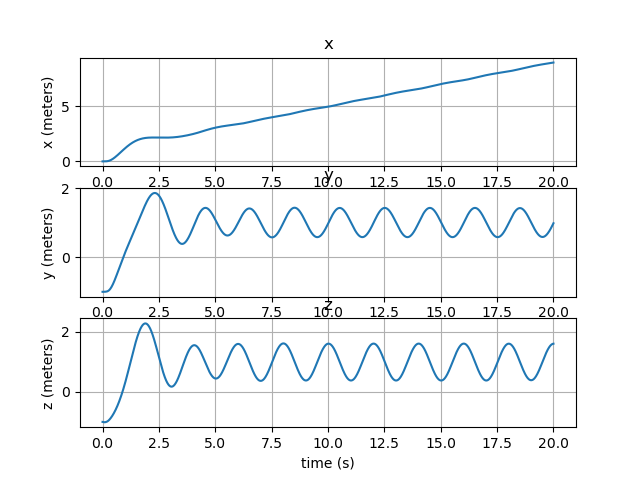
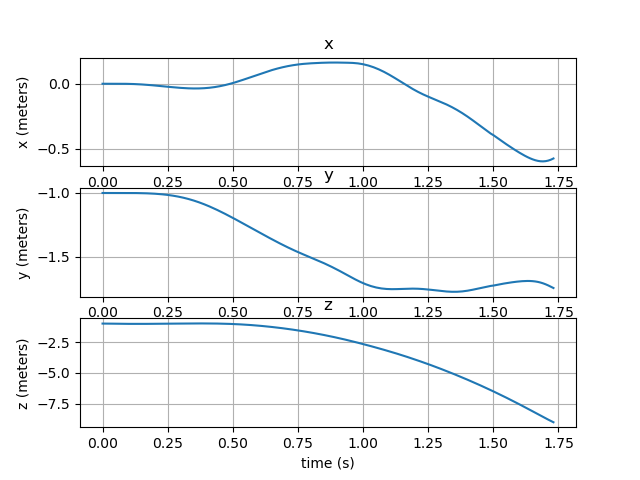
not good

diff --git a/MultiRotorDynamics.py b/MultiRotorDynamics.py
@@ -181,7 +181,7 @@ class Battery():
     
 
 class TrajectoryPlanner():
-    def __init__(self, delta_t, max_time, x_d_lambda,b1_d_lambda):
+    def __init__(self, delta_t, max_time, x_d_lambda,b1_d_lambda,b3_d_lambda):
         self.delta_t = delta_t
         self.max_time = max_time
         self.t = np.linspace(0,max_time,int(max_time/delta_t)+1) 
@@ -189,6 +189,7 @@ class TrajectoryPlanner():
         self.x_dot_d = derivative(x_d_lambda,self.t,dx=1e-6)
         self.x_dot_dot_d = derivative(x_d_lambda,self.t,dx=1e-6,n=2)
         self.b1_d = b1_d_lambda(self.t)
+        self.b3_d = b3_d_lambda(self.t)
 
         self.prev_R_d = np.eye(3)
         self.prev_ang_vel_d = np.zeros((3,))
@@ -196,7 +197,7 @@ class TrajectoryPlanner():
 
         
     def get_trajectory(self,time):
-        return self.x_d[:,int(time/self.delta_t)],self.x_dot_d[:,int(time/self.delta_t)],self.x_dot_dot_d[:,int(time/self.delta_t)], self.b1_d[:,int(time/self.delta_t)]
+        return self.x_d[:,int(time/self.delta_t)],self.x_dot_d[:,int(time/self.delta_t)],self.x_dot_dot_d[:,int(time/self.delta_t)], self.b1_d[:,int(time/self.delta_t)], self.b3_d[:,int(time/self.delta_t)]
 
 
 
@@ -211,14 +212,30 @@ class Controller():
         self.k_omega = k_omega
         self.fully_actuated = None
         self.controllable = None
+        self.rxy = 0
         self.allocation_matrix = self.calculate_allocation_matrix(rotors)
+        
         self.TP = TrajectoryPlanner
         
     
     def update_trajectory(self,time):
-        x_d, x_dot_d, x_dot_dot_d, b1_d = self.TP.get_trajectory(time)
-        self.traj = [x_d, x_dot_d, x_dot_dot_d, b1_d]
+        x_d, x_dot_d, x_dot_dot_d, b1_d, b3_d = self.TP.get_trajectory(time)
+        self.traj = [x_d, x_dot_d, x_dot_dot_d, b1_d, b3_d]
     
+    def get_b3d(self, b3r, fr, n):
+        rxy = self.rxy
+        cross = np.cross(b3r,fr)
+        k = cross/np.linalg.norm(cross)
+        theta_max = np.arcsin(np.linalg.norm(k))
+        theta = theta_max/2
+        for i in range(n):
+            
+            if fr@(b3r*np.cos(theta)-cross*np.sin(theta)+k*(k@b3r)*(1-np.cos(theta))) >= np.sqrt(np.linalg.norm(fr)**2-rxy**2):
+                theta = theta-1/2*theta_max/(2**i)
+            else:
+                theta = theta + 1/2*theta_max/(2**i)
+        b3d = b3r*np.cos(theta)-cross*np.sin(theta)+k*(k@b3r)*(1-np.cos(theta))
+        return b3d
 
     def calculate_errors(self, m, time, R_mat, ang_vel, t_vec, t_vec_dot):
 
@@ -226,16 +243,17 @@ class Controller():
         e3 = np.array([0,0,1],dtype = float)
         
         self.update_trajectory(time)
-        x_d, x_dot_d, x_dot_dot_d, b1_d = self.traj
+        x_d, x_dot_d, x_dot_dot_d, b1_r, b3_r = self.traj
 
         #Positional errors
         e_x = t_vec - x_d
         e_v = t_vec_dot - x_dot_d
 
         #Calculate R_d
-        ctrl = -self.k_x*e_x - self.k_v*e_v+m*g*e3+m*x_dot_dot_d
-        b3_d = ctrl/np.linalg.norm(ctrl)
-        cross31 = np.cross(b3_d,b1_d)
+        fr = -m*self.k_x*e_x - m*self.k_v*e_v+m*g*e3+m*x_dot_dot_d
+        # b3_d = ctrl/np.linalg.norm(ctrl)
+        b3_d = self.get_b3d(b3_r,fr,100)
+        cross31 = np.cross(b3_d,b1_r)
         b2_d = cross31/np.linalg.norm(cross31)
         b1_d_new = np.cross(b2_d,b3_d)
         R_d = np.array([b1_d_new,b2_d,b3_d]).T
@@ -293,10 +311,15 @@ class Controller():
             return None
         elif (np.linalg.matrix_rank(allocation_matrix_full) == 6):
             self.fully_actuated = True
+            force_vectors_xy = allocation_matrix_full[:2,:]*[rotor.maxforce for rotor in rotors]
+            self.rxy = np.sqrt(np.sum(np.abs(force_vectors_xy[0]))**2+np.sum(np.abs(force_vectors_xy[1]))**2)
+
             return allocation_matrix_full
         else:
             self.fully_actuated = False
             return allocation_matrix
+    
+        
 
     def force_allocation(self, f, M):
         forces = np.insert(M,0,f)
@@ -305,13 +328,19 @@ class Controller():
 
     def get_rotor_forces(self,m,J,time,R_mat,ang_vel,t_vec,t_vec_dot):
         e_x, e_v, e_R, e_omega = self.calculate_errors(m,time,R_mat,ang_vel,t_vec,t_vec_dot)
+        e1 = np.array([1,0,0],dtype = float)
+        e2 = np.array([0,1,0],dtype = float)
         e3 = np.array([0,0,1],dtype = float)
         
         f, M = self.calculate_forces(m,e_x,e_v, e_R, e_omega, R_mat, ang_vel, J)
         
-        if not self.fully_actuated:
+        if self.fully_actuated:
+            f_xy = (f@R_mat@e1)*e1+(f@R_mat@e2)*e2
+            if np.linalg.norm(f_xy)>self.rxy:
+                f_xy = f_xy*np.linalg.norm(f_xy)*self.rxy
+            f = f_xy+(f@R_mat@e3)*e3
+        else:
             f = f@R_mat@e3
-        
         rotor_forces = self.force_allocation(f, M)
         return rotor_forces
 

diff --git a/old_main.py b/old_main.py
@@ -50,7 +50,7 @@ k_omega = 2.54*0.1
 #Trajectory
 x_d = lambda t : np.array([0.4*t+1,0.4*np.sin(np.pi*t)+1,0.6*np.cos(np.pi*t)+1])# x_d = lambda t : np.array([0*t,1*t,1*t])#
 b1_d = lambda t : np.array([np.cos(np.pi*t),np.sin(np.pi*t),0*t])# b1_d = lambda t : np.array([1*t,0*t,0*t])# b1_d = lambda t : np.array([np.cos(np.pi*t),np.sin(np.pi*t),0*t])
-
+b3_d = lambda t : np.array([0*t,0*t,1*t])
 
 
 def main():
@@ -58,7 +58,7 @@ def main():
     dep_cams = []
     IMU = MRD.IMU(m_IMU,np.array([0,0,np.pi/2],dtype=float),np.array([0,0,0],dtype=float),gyro_bias,magnet_bias, k_a,k_m,k_b)
 
-    TrajectoryPlanner = MRD.TrajectoryPlanner(delta_t,max_time,x_d,b1_d)
+    TrajectoryPlanner = MRD.TrajectoryPlanner(delta_t,max_time,x_d,b1_d,b3_d)
     Battery = MRD.Battery(0.6,5,6,"big")
     #Normal Quadrotor rotors
     rotors.append(MRD.Rotor(m_rotor,np.array([0,0,0],dtype=float),np.array([d,0,0],dtype=float),20,-1,0))
@@ -68,14 +68,14 @@ def main():
     
     
     #Custom
-    # rotors.append(mrd.Rotor(m_rotor,np.array([0,0,-np.pi/32],dtype=float),np.array([d,0,0],dtype=float),20,-1,16))
-    # rotors.append(mrd.Rotor(m_rotor,np.array([0,np.pi/32,0],dtype=float),np.array([0,d,0],dtype=float),-20,1,16))
-    # rotors.append(mrd.Rotor(m_rotor,np.array([0,0,np.pi/32],dtype=float),np.array([-d,0,0],dtype=float),20,-1,16))
-    # rotors.append(mrd.Rotor(m_rotor,np.array([0,-np.pi/32,0],dtype=float),np.array([0,-d,0],dtype=float),-20,1,16))
-    # rotors.append(mrd.Rotor(m_rotor,np.array([0,0,np.pi/3],dtype=float),np.array([d/np.sqrt(2),d/np.sqrt(2),0],dtype=float),20,-1,16))
-    # rotors.append(mrd.Rotor(m_rotor,np.array([0,0,0],dtype=float),np.array([-d/np.sqrt(2),-d/np.sqrt(2),0],dtype=float),-20,1,16))
-    # rotors.append(mrd.Rotor(m_rotor,np.array([0,0,np.pi/2],dtype=float),np.array([-d/np.sqrt(2),d/np.sqrt(2),-0.25],dtype=float),20,-1,16))
-    # rotors.append(mrd.Rotor(m_rotor,np.array([0,0,0],dtype=float),np.array([d/np.sqrt(2),-d/np.sqrt(2),0.25],dtype=float),-20,1,16))
+    # rotors.append(MRD.Rotor(m_rotor,np.array([0,0,-np.pi/32],dtype=float),np.array([d,0,0],dtype=float),20,-1,16))
+    # rotors.append(MRD.Rotor(m_rotor,np.array([0,np.pi/32,0],dtype=float),np.array([0,d,0],dtype=float),-20,1,16))
+    # rotors.append(MRD.Rotor(m_rotor,np.array([0,0,np.pi/32],dtype=float),np.array([-d,0,0],dtype=float),20,-1,16))
+    # rotors.append(MRD.Rotor(m_rotor,np.array([0,-np.pi/32,0],dtype=float),np.array([0,-d,0],dtype=float),-20,1,16))
+    # rotors.append(MRD.Rotor(m_rotor,np.array([0,0,np.pi/3],dtype=float),np.array([d/np.sqrt(2),d/np.sqrt(2),0],dtype=float),20,-1,16))
+    # rotors.append(MRD.Rotor(m_rotor,np.array([0,0,0],dtype=float),np.array([-d/np.sqrt(2),-d/np.sqrt(2),0],dtype=float),-20,1,16))
+    # rotors.append(MRD.Rotor(m_rotor,np.array([0,0,np.pi/2],dtype=float),np.array([-d/np.sqrt(2),d/np.sqrt(2),-0.25],dtype=float),20,-1,16))
+    # rotors.append(MRD.Rotor(m_rotor,np.array([0,0,0],dtype=float),np.array([d/np.sqrt(2),-d/np.sqrt(2),0.25],dtype=float),-20,1,16))
     Controller = MRD.Controller(k_x,k_v,k_R,k_omega,TrajectoryPlanner, rotors)
     dep_cams.append(MRD.DepthCamera(m_dep_cam, rot_vec=np.array([0,0,0],dtype=float), t_vec=np.array([0,0,d],dtype=float),AoV=AoV,K = K,res = res))
     

diff --git a/GA.py b/GA.py
@@ -23,6 +23,7 @@ max_time = 20
 # b1_d = lambda t : np.array([np.cos(np.pi*t),np.sin(np.pi*t),0*t])# b1_d = lambda t : np.array([1*t,0*t,0*t])# b1_d = lambda t : np.array([np.cos(np.pi*t),np.sin(np.pi*t),0*t])
 x_d = lambda t : np.array([0*t+1,1*t+1,1*t+1])
 b1_d = lambda t : np.array([1*t,0*t,0*t])
+b3_d = lambda t : np.array([0*t,0*t,1*t])
 
 m_IMU = 0.02
 m_dep_cam = 0.03
@@ -151,7 +152,7 @@ def load_MR_from_sol(solution):
 
     Battery = MRD.Battery(bat_m,bat_Ah,bat_S,bat_name)
     IMU = MRD.IMU(m_IMU,np.array([0,0,np.pi/2],dtype=float),np.array([0,0,0],dtype=float),gyro_bias,magnet_bias, k_a,k_m,k_b)
-    TP = MRD.TrajectoryPlanner(delta_t,max_time,x_d,b1_d)
+    TP = MRD.TrajectoryPlanner(delta_t,max_time,x_d,b1_d,b3_d)
     Controller = MRD.Controller(k_x,k_v,k_R, k_omega, TP,rotors)
     MR = MRD.MultiRotor(m_centroid,
                           rot_vec=np.array([0,0,0],dtype=float),
